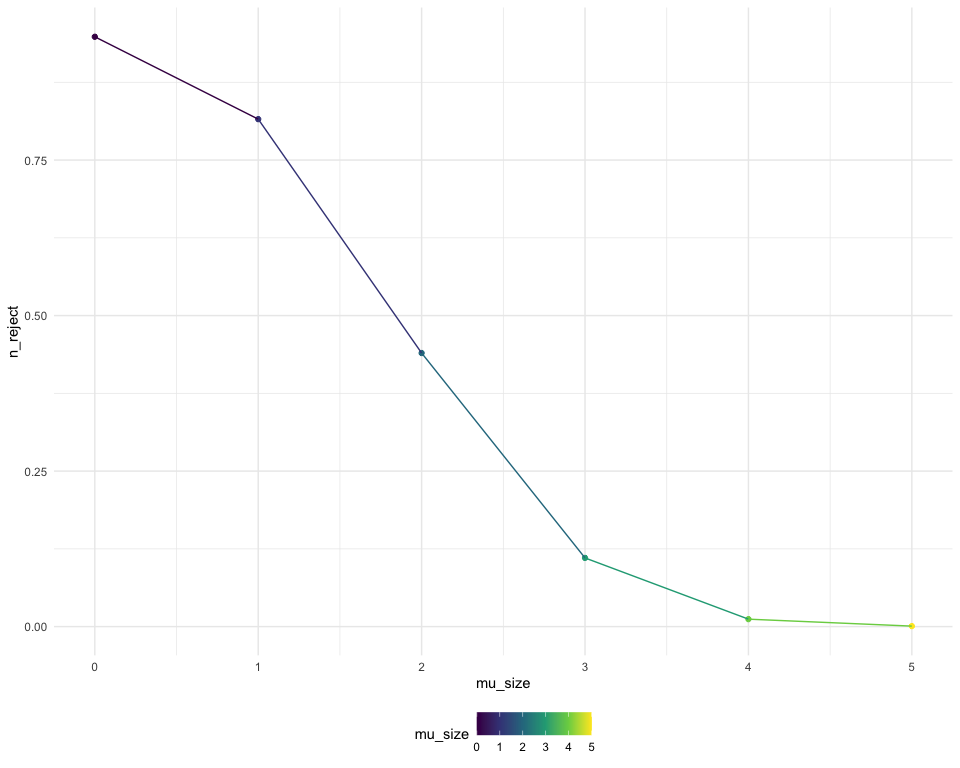
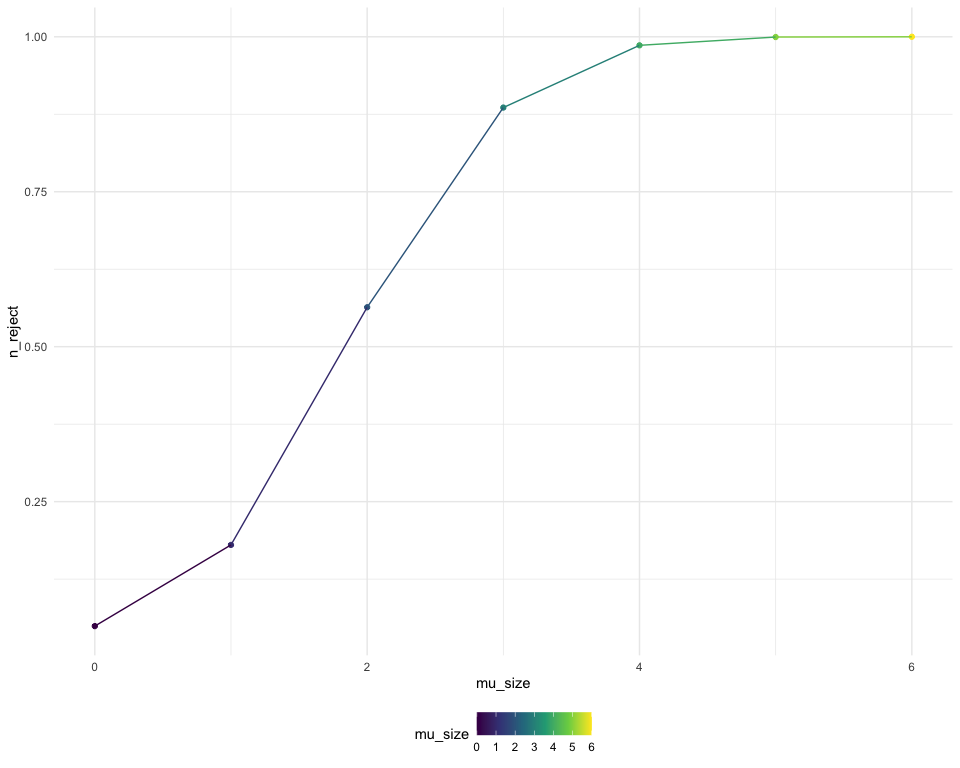
Problem 1 Completed

diff --git a/p8105_hw5_yy3421.md b/p8105_hw5_yy3421.md
@@ -6,64 +6,105 @@ p8105_hw5_yy3421
 ### Description of the raw data
 
 ``` r
-homicide_data_raw = read_csv("data/homicide-data.csv")
+homicide_data_raw = read_csv("data/homicide-data.csv", na = c("", "NA", "Unknown"))
 ```
 
     ## Rows: 52179 Columns: 12
     ## ── Column specification ────────────────────────────────────────────────────────
     ## Delimiter: ","
-    ## chr (9): uid, victim_last, victim_first, victim_race, victim_age, victim_sex...
-    ## dbl (3): reported_date, lat, lon
+    ## chr (8): uid, victim_last, victim_first, victim_race, victim_sex, city, stat...
+    ## dbl (4): reported_date, victim_age, lat, lon
     ## 
     ## ℹ Use `spec()` to retrieve the full column specification for this data.
     ## ℹ Specify the column types or set `show_col_types = FALSE` to quiet this message.
-
-The raw dataset contains 52179 observations and 12 variables.
 
 ``` r
 homicide_data = 
   homicide_data_raw |> 
   mutate(
-    city_state = paste(city, state, sep = ", ")
-  ) 
-```
-
-``` r
-total_homicides = 
-  homicide_data |> 
-  group_by(city_state) |> 
-  summarise(total_number_of_homicides = n()) 
-```
-
-``` r
-unsolved_homicide = 
-  homicide_data |> 
-  group_by(city_state) |> 
-  filter(
-    disposition %in% c("Closed without arrest", "Open/No arrest")
+    city_state = paste(city, state, sep = ", "),
+    resolution = case_when(
+      disposition == "Closed without arrest" ~ "unsolved",
+      disposition == "Open/No arrest"        ~ "unsolved",
+      disposition == "Closed by arrest"      ~ "solved")
   ) |> 
-  summarise(number_of_unsolved_homicides = n()) 
+  filter(city_state != "Tulsa, AL") 
 ```
+
+The raw dataset contains 52179 observations and 12 variables. This
+dataset also contains demographic information of the victim for each
+case, like age, sex, and race, and case-specific information, like date,
+and location.
+
+Through data cleaning, a `city_state` variable was first created to
+combine the information from city and state variable. Furthermore, a
+`resolution` variable was created to distinguish the final status of
+each case. One entry in Tulsa, AL was excluded through data cleaning as
+the location is not a major US city.
+
+``` r
+city_homicide_df = 
+  homicide_data %>% 
+  select(city_state, disposition, resolution) %>% 
+  group_by(city_state) %>% 
+  summarize(
+    hom_total = n(),
+    hom_unsolved = sum(resolution == "unsolved"))
+```
+
+The above code chunks summarizes the total number of homicides and the
+number of homicides that were solved.
 
 ## Prop test for Baltimore
 
+Looking at cases located in Baltimore, MD, proportion test was used,
+complemented by `broom::tidy` function, to estimate the proportion and
+confidence level of unsolved homicides in that city.
+
 ``` r
-output_Baltimore = vector("list", length = 3)
+bmore_test = 
+  prop.test(
+    x = filter(city_homicide_df, city_state == "Baltimore, MD")  |>  pull(hom_unsolved),
+    n = filter(city_homicide_df, city_state == "Baltimore, MD")  |>  pull(hom_total)) 
 
-Baltimore_total = 
-  total_homicides |> 
-  filter(
-    city_state == "Baltimore, MD"
-  ) 
-
-Baltimore_unsolved = 
-  unsolved_homicide |> 
-  filter(
-    city_state == "Baltimore, MD"
-  ) 
-    
-prop_Balt = prop.test(1825, 2827, alternative = "two.sided") |> broom::tidy()
+broom::tidy(bmore_test)  |>  
+  knitr::kable(digits = 3)
 ```
+
+| estimate | statistic | p.value | parameter | conf.low | conf.high | method                                               | alternative |
+|---------:|----------:|--------:|----------:|---------:|----------:|:-----------------------------------------------------|:------------|
+|    0.646 |   239.011 |       0 |         1 |    0.628 |     0.663 | 1-sample proportions test with continuity correction | two.sided   |
+
+Furthermore, estimates and CIs for the proportion of unsolved homicides
+for each city are presented below using the `map` function.
+
+``` r
+test_results = 
+  city_homicide_df  |>  
+  mutate(
+    prop_tests = map2(hom_unsolved, hom_total, \(x, y) prop.test(x = x, n = y)),
+    tidy_tests = map(prop_tests, broom::tidy))  |>  
+  select(-prop_tests)  |>  
+  unnest(tidy_tests)  |>  
+  select(city_state, estimate, conf.low, conf.high)  |>  
+  mutate(city_state = fct_reorder(city_state, estimate))
+```
+
+Using the data from the above data chunck, a point plot, along with
+error bar, is created to visualized the estimate of the proportion of
+unsolved homicides in each city. Chicago, IL has the highest estimate
+and Richmond, VA has the lowest.
+
+``` r
+test_results  |>  
+  mutate(city_state = fct_reorder(city_state, estimate))  |>  
+  ggplot(aes(x = city_state, y = estimate)) + 
+  geom_point() + 
+  geom_errorbar(aes(ymin = conf.low, ymax = conf.high)) + 
+  theme(axis.text.x = element_text(angle = 90, hjust = 1))
+```
+
+<img src="p8105_hw5_yy3421_files/figure-gfm/p1 plot-1.png" width="90%" />
 
 ## Problem 2
 
@@ -305,7 +346,7 @@ sim_results_df =
 ``` r
 sim_results_df |> 
   group_by(mu_size) |> 
-  filter(p.value >= 0.05) |> 
+  filter(p.value < 0.05) |> 
   summarize(n_reject = n()) |> 
   mutate(
     n_reject = n_reject / 5000
@@ -333,12 +374,12 @@ sim_results_df_mean_mu=
 
 sim_results_df |> 
   group_by(mu_size) |> 
-  filter(p.value > 0.05) |> 
+  filter(p.value < 0.05) |> 
   summarize(mean_reject = mean(estimate)) |> 
   right_join(sim_results_df_mean_mu) |> 
   ggplot(aes(x = mu_size)) +
-  geom_line(aes(y = mean_reject, color = mean_reject))+
-  geom_line(aes(y = mean_estimate, color = mean_estimate))+
+  geom_line(aes(y = mean_reject, color = "red"))+
+  geom_line(aes(y = mean_estimate, color = "blue"))+
   labs(
     x = c("Size of Mu"),
     y = c("Mean of Estimate"),
